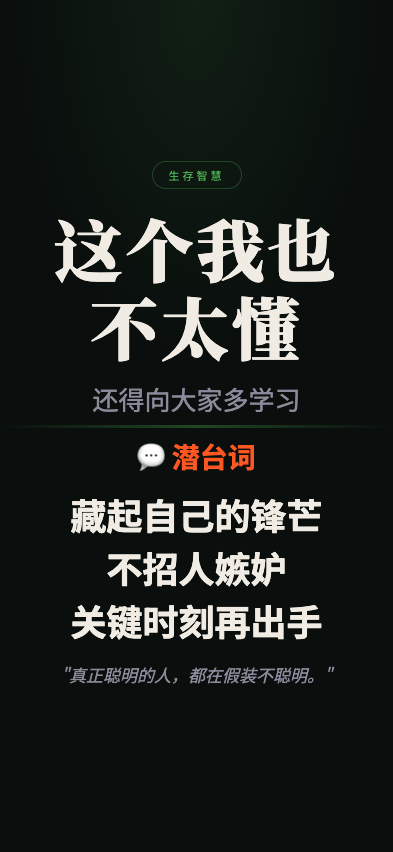
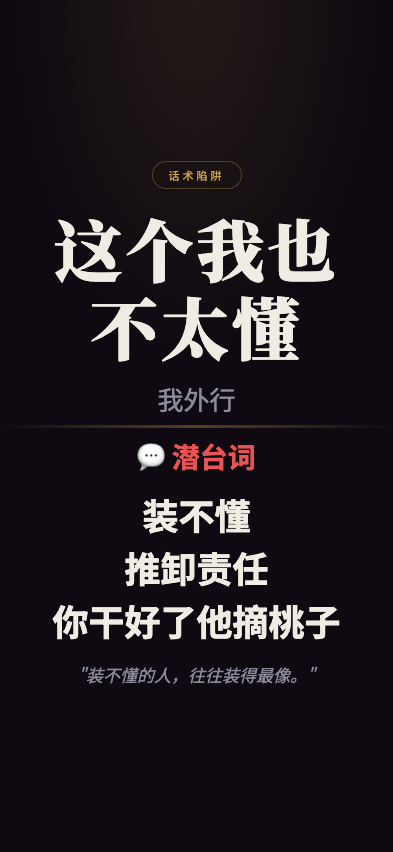
feat: 职场生存法则 screenshot - wowanquanzhanzainizhebian

Changed region(s): [[0.1221, 0.5798, 0.855, 0.8239], [0.2137, 0.4577, 0.7634, 0.5493], [0.4275, 0.1831, 0.5802, 0.2136]]

diff --git a/wuliao-tools/tools/biz-speak/scenes/zhegewoyebutaidong.html b/wuliao-tools/tools/biz-speak/scenes/zhegewoyebutaidong.html
@@ -7,11 +7,11 @@
 <link href="https://fonts.googleapis.com/css2?family=Noto+Serif+SC:wght@400;700;900&family=Noto+Sans+SC:wght@300;400;700&display=swap" rel="stylesheet">
 <style>
   :root {
-    --bg: #0a0f0d;
+    --bg: #0f0a12;
     --text: #f0ece4;
     --text-dim: #8a8a9a;
-    --gold: #4caf50;
-    --red: #ff5722;
+    --gold: #d4a843;
+    --red: #e85454;
   }
   * { margin:0; padding:0; box-sizing:border-box; }
   html, body { width:100%; height:100%; overflow:hidden; }
@@ -24,11 +24,11 @@
   }
   body::before {
     content:''; position:absolute; top:0; left:0; right:0; height:45%;
-    background:radial-gradient(ellipse at 50% 0%, rgba(76,175,80,0.1) 0%, transparent 65%);
+    background:radial-gradient(ellipse at 50% 0%, rgba(212,168,67,0.1) 0%, transparent 65%);
     pointer-events:none; z-index:0;
   }
   .top { flex:1; display:flex; flex-direction:column; align-items:center; justify-content:flex-end; padding:4px 28px 8px; position:relative; z-index:1; }
-  .tag { font-size:11px; letter-spacing:3px; color:var(--gold); border:1px solid rgba(76,175,80,0.3); padding:5px 16px; border-radius:50px; margin-bottom:20px; }
+  .tag { font-size:11px; letter-spacing:3px; color:var(--gold); border:1px solid rgba(212,168,67,0.3); padding:5px 16px; border-radius:50px; margin-bottom:20px; }
   .main-title { font-family:'Noto Serif SC'; font-size:68px; font-weight:900; text-align:center; line-height:1.15; letter-spacing:3px; min-width:0; overflow-wrap:break-word; max-width:92%; }
   .sub-title { font-size:26px; color:var(--text-dim); text-align:center; margin-top:14px; }
   .divider { width:100%; height:3px; background:linear-gradient(90deg,transparent,var(--gold),transparent); opacity:0.35; flex-shrink:0; position:relative; z-index:1; }
@@ -41,19 +41,19 @@
 </head>
 <body>
   <div class="top">
-    <div class="tag">生存智慧</div>
+    <div class="tag">话术陷阱</div>
     <div class="main-title">这个我也不太懂</div>
-    <div class="sub-title">还得向大家多学习</div>
+    <div class="sub-title">我外行</div>
   </div>
   <div class="divider"></div>
   <div class="bottom">
     <div class="truth-label">💬 潜台词</div>
     <div class="truth-lines">
-      <div class="truth-line">藏起自己的锋芒</div>
-      <div class="truth-line">不招人嫉妒</div>
-      <div class="truth-line">关键时刻再出手</div>
+      <div class="truth-line">装不懂</div>
+      <div class="truth-line">推卸责任</div>
+      <div class="truth-line">你干好了他摘桃子</div>
     </div>
-    <div class="quote">"真正聪明的人，都在假装不聪明。"</div>
+    <div class="quote">"装不懂的人，往往装得最像。"</div>
   </div>
 </body>
 </html>
